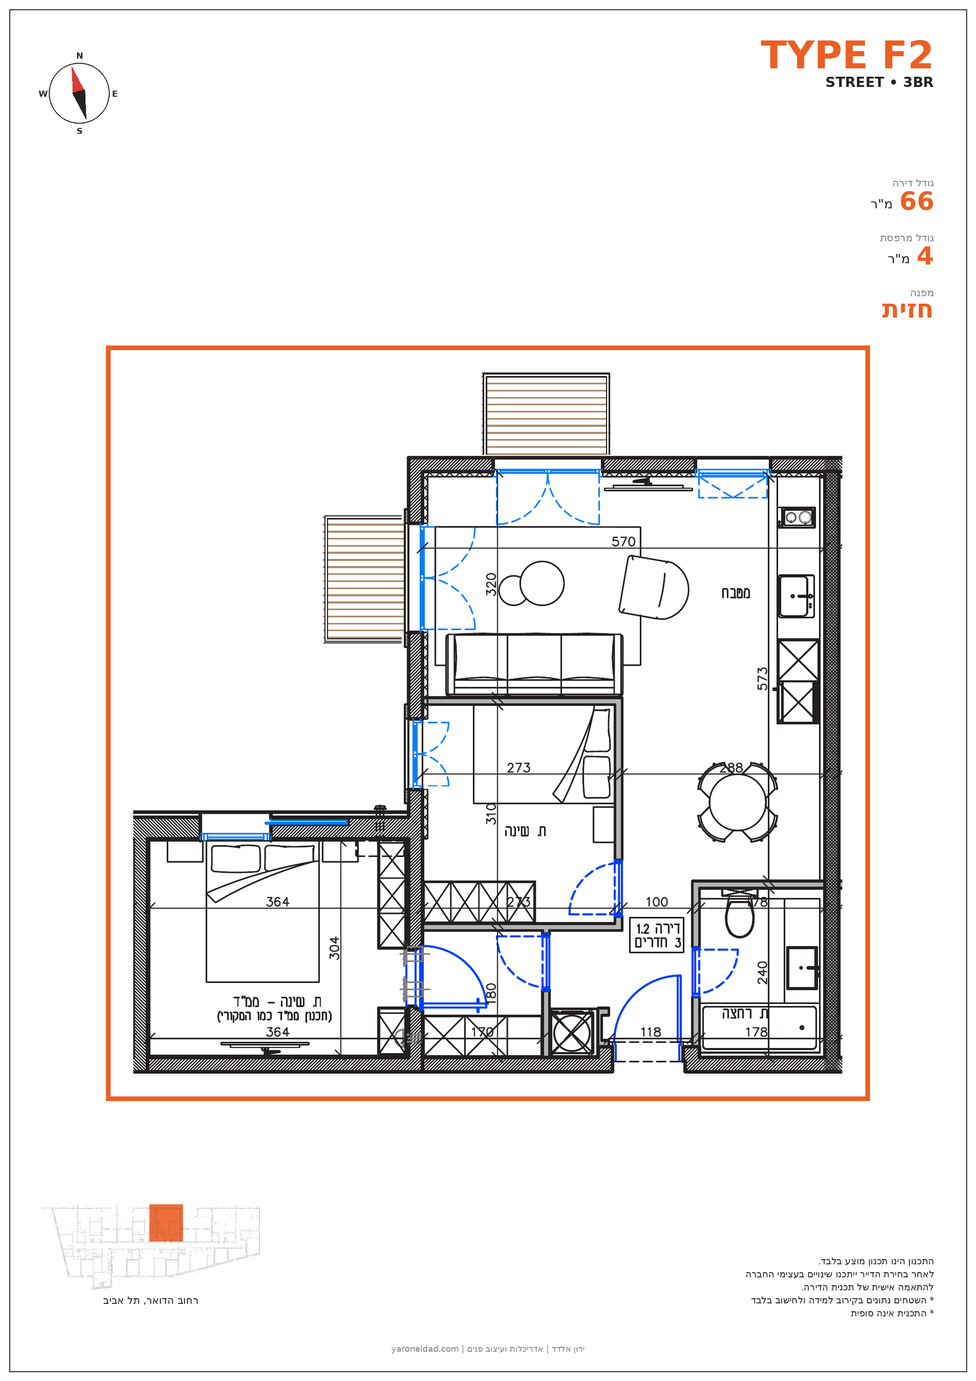
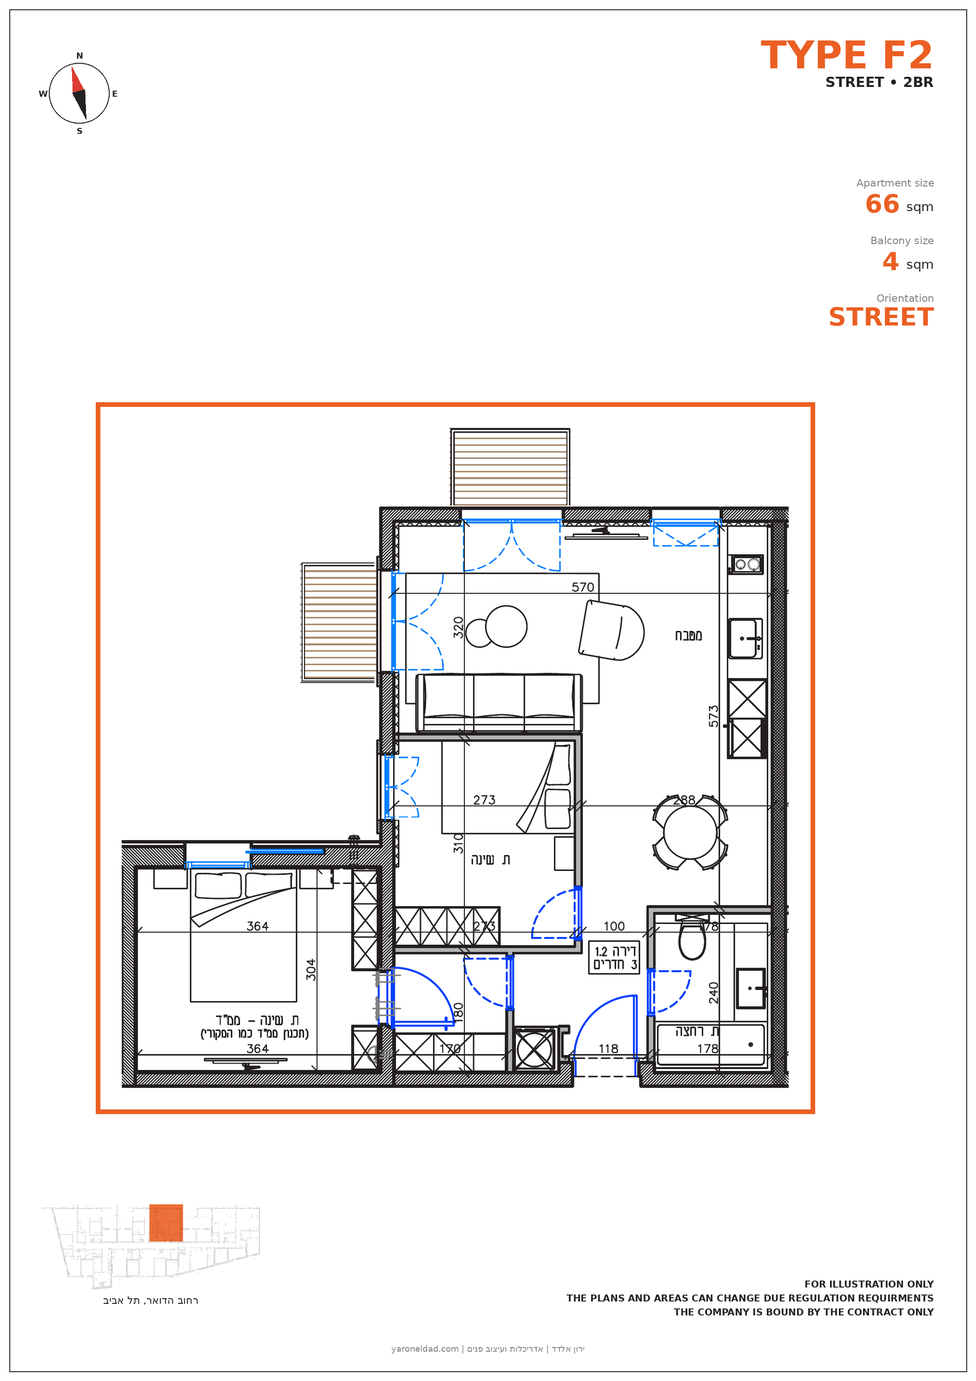
Refine map, POI grid, type metadata and copy
- Map: drop big white circle around HADOAR; new minimal teal dot + framed stone-card label
- Map: dashed aerial lines from HADOAR to every landmark (visual proximity, no on-map text noise)
- Map: HADOAR repositioned south to actual building location (east of Charles Clore, between Neve Tzedek and Jaffa)
- Map: Alma Beach moved out of the sea onto the coast
- Map: Charles Clore Park redrawn as a long N→S green strip running along the coast (matches reality)
- Map: add Setai Hotel marker on coast, north of the Clock Tower
- Map: HaMesila Park ellipse and Neve Tzedek shifted east to clear the new HADOAR
- POI grid: drop "The Sea" (redundant with Alma Beach), add Setai Hotel; replace "M · AERIAL" with walker-icon + walking minutes (6 km/h) + metres
- Nearby cards: replace Gesher Theatre with Setai Hotel
- Floor plan v3 PNGs refreshed (English labels) — typeMeta updated: A→2BR, C→3BR, F1/F2→2BR, G1/G2→Garden 1BR, G3→Garden 2BR, L→Street 3.5BR, Patio A/B→2BR + Patio
- Promise/Interiors/Bedrooms/Plans: drop residual "furnished" wording, remove materials we don't deliver (concrete ceilings, oxidised steel feature walls)
- Plans tabs: Typical Floor → Second Floor (label, data-tab, planMeta key, alt text, intro paragraph)
- Move-in standard chip: KNX → Smart-ready / Wiring

Changed region(s): [[0.0929, 0.1239, 0.9595, 0.8054], [0.681, 0.8983, 0.9595, 0.9603]]

diff --git a/index.html b/index.html
@@ -246,7 +246,8 @@ h1,h2,h3{font-family:var(--serif);font-weight:300;letter-spacing:-.005em;line-he
 .poi{padding:24px 22px;border-right:1px solid var(--line);display:flex;flex-direction:column;gap:6px}
 .poi:last-child{border-right:none}
 .poi .name{font-family:var(--serif);font-size:19px;font-weight:400}
-.poi .meta{font-size:10px;letter-spacing:.28em;text-transform:uppercase;color:var(--mute)}
+.poi .meta{font-size:10px;letter-spacing:.28em;text-transform:uppercase;color:var(--mute);display:inline-flex;align-items:center;gap:8px}
+.poi .meta .walk-icon{width:13px;height:16px;color:var(--sea-deep);flex-shrink:0}
 @media(max-width:900px){.poi-grid{grid-template-columns:repeat(2,1fr)}.poi:nth-child(2n){border-right:none}.poi:nth-child(odd){border-right:1px solid var(--line)}}
 
 /* TEAM */
@@ -361,13 +362,13 @@ footer{background:var(--ink);color:var(--paper);padding:60px 44px 36px;border-to
   <div class="promise-inner">
     <div class="eyebrow fade" style="justify-content:center"><span class="bar"></span><span class="label">Move-in standard</span></div>
     <h2 class="fade" data-d="1">Designed,<br/>down to the <em>last detail</em>.</h2>
-    <p class="fade" data-d="2">Hadoar 8 is delivered as a finished interior. Italian kitchens, travertine bathrooms, oak flooring, brass detailing, oxidised steel — every fixture and finish resolved. The buyer chooses what to bring; everything else is in place.</p>
+    <p class="fade" data-d="2">Hadoar 8 is delivered as a finished interior. Italian kitchens, travertine bathrooms, oak flooring, brass detailing, oxidised steel — every fixture and finish resolved.</p>
     <div class="promise-line fade" data-d="3">
       <div class="item"><span class="v">Yaron Eldad</span><span class="k">Interior Studio</span></div>
       <div class="item"><span class="v">Italian</span><span class="k">Stainless kitchens</span></div>
       <div class="item"><span class="v">Travertine</span><span class="k">All bathrooms</span></div>
       <div class="item"><span class="v">Smoked Oak</span><span class="k">Flooring</span></div>
-      <div class="item"><span class="v">KNX</span><span class="k">Smart-home</span></div>
+      <div class="item"><span class="v">Smart-ready</span><span class="k">Wiring</span></div>
     </div>
   </div>
 </section>
@@ -425,12 +426,12 @@ footer{background:var(--ink);color:var(--paper);padding:60px 44px 36px;border-to
     <div class="split-text">
       <div class="eyebrow fade"><span class="bar"></span><span class="label">The Living Room</span></div>
       <h2 class="fade" data-d="1">Stainless kitchens.<br/>Oak <em>everywhere</em>.</h2>
-      <p class="fade" data-d="2">An open kitchen in stainless steel and oak, a dining table under a soft pendant, and the city beyond the window. Every piece in the photograph is delivered with the home — chairs, sofa, table, lamps.</p>
+      <p class="fade" data-d="2">An open kitchen in stainless steel and oak, a dining table under a soft pendant, and the city beyond the window.</p>
       <ul>
         <li class="fade" data-d="2"><span>Kitchen</span><span>Italian stainless</span></li>
         <li class="fade" data-d="2"><span>Floor</span><span>Smoked oak</span></li>
         <li class="fade" data-d="3"><span>Climate</span><span>VRF · underfloor</span></li>
-        <li class="fade" data-d="3"><span>Smart Home</span><span>KNX-ready</span></li>
+        <li class="fade" data-d="3"><span>Smart Home</span><span>Smart-ready wiring</span></li>
       </ul>
     </div>
   </div>
@@ -472,7 +473,7 @@ footer{background:var(--ink);color:var(--paper);padding:60px 44px 36px;border-to
   <div class="gallery-head">
     <div class="eyebrow fade" style="justify-content:center"><span class="bar"></span><span class="label">The Bedrooms</span></div>
     <h2 class="fade" data-d="1">Where the city <em>quiets</em>.</h2>
-    <p class="fade" data-d="2">Concrete ceilings, oxidised steel feature walls, oak floors and copper detailing. Each bedroom is finished by Yaron Eldad's studio.</p>
+    <p class="fade" data-d="2">Oak floors and copper detailing. Each bedroom is finished by Yaron Eldad's studio.</p>
   </div>
   <div class="gal-2">
     <div class="gal-img fade"><img src="assets/renders/bedroom.jpg" alt="Master bedroom" /></div>
@@ -498,16 +499,16 @@ footer{background:var(--ink);color:var(--paper);padding:60px 44px 36px;border-to
   <div class="plans-head">
     <div class="eyebrow fade" style="justify-content:center"><span class="bar"></span><span class="label">Floor Plans · Yaniv Pardo Architects</span></div>
     <h2 class="fade" data-d="1">Two plates.<br/>No two residences <em>alike</em>.</h2>
-    <p class="fade" data-d="2">A first floor that meets the boulevard, and a typical residential plate above it. Switch between the two below; book a viewing to walk a specific apartment.</p>
+    <p class="fade" data-d="2">A first floor that meets the boulevard, and a second floor above it. Switch between the two plates below, or pick a specific apartment type to see its plan.</p>
   </div>
   <div class="plan-tabs fade">
     <button class="plan-tab active" data-tab="first">First Floor</button>
-    <button class="plan-tab" data-tab="typical">Typical Floor</button>
+    <button class="plan-tab" data-tab="second">Second Floor</button>
   </div>
   <div class="plan-stage fade" data-d="1">
     <div class="plan-frame">
       <div class="plan-pic show" data-pic="first"><img src="assets/floorplans/floor%20plans/1st-floor.png" alt="First floor plan — Yaniv Pardo Architects" /></div>
-      <div class="plan-pic" data-pic="typical"><img src="assets/floorplans/floor%20plans/typical-floor.png" alt="Typical floor plan — Yaniv Pardo Architects" /></div>
+      <div class="plan-pic" data-pic="second"><img src="assets/floorplans/floor%20plans/typical-floor.png" alt="Second floor plan — Yaniv Pardo Architects" /></div>
     </div>
     <div class="plan-info">
       <div class="item"><span class="k">Level</span><span class="v" id="plan-level"><em>First</em> Floor</span></div>
@@ -577,90 +578,98 @@ footer{background:var(--ink);color:var(--paper);padding:60px 44px 36px;border-to
       <!-- Land base -->
       <rect width="1200" height="720" fill="url(#dots)"/>
 
-      <!-- Sea — enlarged & emphasized -->
+      <!-- Sea -->
       <path d="M0 0 L0 720 L460 720 Q430 540 470 380 Q510 220 430 60 Q380 0 0 0 Z" fill="#bcd6df"/>
       <rect x="0" y="0" width="460" height="720" fill="url(#seaWaves)" opacity=".7"/>
       <text x="160" y="200" font-family="Cormorant Garamond, serif" font-style="italic" font-size="56" fill="#3d6a7d" opacity=".9">Mediterranean</text>
-      <text x="200" y="240" font-family="Inter,sans-serif" font-size="11" font-weight="500" letter-spacing="3" fill="#3d6a7d">250 M · AERIAL</text>
 
       <!-- Coast wave detail -->
       <path d="M440 80 Q460 240 420 400 Q470 560 440 720" stroke="#3d6a7d" stroke-width="1" fill="none" opacity=".55"/>
 
-      <!-- Aerial line from building to sea (dashed direct) -->
-      <line x1="600" y1="380" x2="320" y2="380" stroke="#3d6a7d" stroke-width="1" stroke-dasharray="3 4" opacity=".7"/>
-      <text x="490" y="370" font-family="Inter,sans-serif" font-size="9" letter-spacing="2" fill="#3d6a7d" opacity=".85">250 M</text>
+      <!-- Subtle street grid -->
+      <path d="M460 460 L1180 460" stroke="#5C544B" stroke-width="0.6" fill="none" opacity=".12"/>
+      <path d="M460 290 L1180 290" stroke="#5C544B" stroke-width="0.6" fill="none" opacity=".12"/>
+      <path d="M700 60 L700 700" stroke="#5C544B" stroke-width="0.6" fill="none" opacity=".10"/>
+      <path d="M900 60 L900 700" stroke="#5C544B" stroke-width="0.6" fill="none" opacity=".10"/>
 
-      <!-- Boulevards / streets -->
-      <path d="M480 720 L530 540 L600 380 L700 240 L860 130 L1100 60" stroke="#5C544B" stroke-width="1.2" fill="none" opacity=".3" stroke-dasharray="2 4"/>
-      <path d="M500 80 Q570 250 650 390 Q740 530 880 700" stroke="#5C544B" stroke-width="1.2" fill="none" opacity=".3" stroke-dasharray="2 4"/>
-      <path d="M460 460 L1180 460" stroke="#5C544B" stroke-width="0.6" fill="none" opacity=".15"/>
-      <path d="M460 290 L1180 290" stroke="#5C544B" stroke-width="0.6" fill="none" opacity=".15"/>
-
-      <!-- Park (HaMesila) -->
-      <ellipse cx="780" cy="500" rx="120" ry="50" fill="#A7B89A" opacity=".42"/>
-      <text x="740" y="505" font-family="Cormorant Garamond, serif" font-size="22" fill="#4d5c44">HaMesila Park</text>
-      <text x="740" y="524" font-family="Inter,sans-serif" font-size="8" letter-spacing="2.5" fill="#4d5c44" opacity=".7">500 M · AERIAL</text>
-
-      <!-- Jaffa Clock Tower (south) -->
-      <g transform="translate(490,620)">
-        <rect x="-7" y="-30" width="14" height="30" fill="none" stroke="#5C544B" stroke-width="1"/>
-        <circle cx="0" cy="-22" r="4" fill="none" stroke="#5C544B" stroke-width="1"/>
-        <path d="M-10 0 L10 0 L8 6 L-8 6 Z" fill="#5C544B" opacity=".6"/>
-        <text x="-50" y="22" font-family="Cormorant Garamond, serif" font-size="20" fill="#2A2520">Clock Tower</text>
-        <text x="-50" y="38" font-family="Inter,sans-serif" font-size="8" letter-spacing="2" fill="#5C544B">OLD JAFFA · 650 M AERIAL</text>
+      <!-- Aerial dashed lines from HADOAR (615,540) to each landmark -->
+      <g stroke="#4F7E91" stroke-width="1" fill="none" opacity=".55" stroke-dasharray="3 5">
+        <line x1="615" y1="540" x2="485" y2="365"/>
+        <line x1="615" y1="540" x2="780" y2="500"/>
+        <line x1="615" y1="540" x2="478" y2="610"/>
+        <line x1="615" y1="540" x2="490" y2="660"/>
+        <line x1="615" y1="540" x2="495" y2="450"/>
+        <line x1="615" y1="540" x2="850" y2="400"/>
+        <line x1="615" y1="540" x2="445" y2="540"/>
+        <line x1="615" y1="540" x2="1040" y2="180"/>
       </g>
 
-      <!-- Neve Tzedek (north-east of building) -->
-      <g transform="translate(900,340)">
-        <path d="M-20 0 L-10 -16 L0 0 Z M-2 0 L8 -20 L18 0 Z M16 0 L26 -14 L36 0 Z" fill="none" stroke="#5C544B" stroke-width="1" opacity=".6"/>
-        <text x="-40" y="22" font-family="Cormorant Garamond, serif" font-size="22" fill="#2A2520">Neve Tzedek</text>
-        <text x="-40" y="38" font-family="Inter,sans-serif" font-size="8" letter-spacing="2" fill="#5C544B">700 M · AERIAL</text>
+      <!-- HaMesila Park -->
+      <ellipse cx="830" cy="500" rx="110" ry="40" fill="#A7B89A" opacity=".4"/>
+      <text x="788" y="503" font-family="Cormorant Garamond, serif" font-style="italic" font-size="20" fill="#4d5c44">HaMesila Park</text>
+
+      <!-- Charles Clore Park (long green strip running N→S along coast) -->
+      <g>
+        <path d="M448 290 Q450 400 458 510 Q448 575 470 600 L520 600 L520 290 Z" fill="#A7B89A" opacity=".55" stroke="#7d9070" stroke-width="0.6"/>
+        <circle cx="490" cy="340" r="1.8" fill="#5d7a4f" opacity=".5"/>
+        <circle cx="478" cy="430" r="1.8" fill="#5d7a4f" opacity=".5"/>
+        <circle cx="500" cy="500" r="1.8" fill="#5d7a4f" opacity=".5"/>
+        <circle cx="485" cy="560" r="1.8" fill="#5d7a4f" opacity=".5"/>
+        <text x="468" y="445" font-family="Cormorant Garamond, serif" font-size="13" fill="#3a4f2c">Charles</text>
+        <text x="468" y="460" font-family="Cormorant Garamond, serif" font-size="13" fill="#3a4f2c">Clore Park</text>
       </g>
 
       <!-- Alma Beach (on coast) -->
-      <g transform="translate(280,460)">
+      <g transform="translate(485,365)">
         <path d="M-20 8 Q-10 -2 0 8 Q10 -2 20 8" stroke="#3d6a7d" stroke-width="1.6" fill="none"/>
         <path d="M-25 18 Q-12 8 0 18 Q12 8 25 18" stroke="#3d6a7d" stroke-width="1.1" fill="none" opacity=".55"/>
-        <text x="-44" y="44" font-family="Cormorant Garamond, serif" font-size="22" fill="#2A2520">Alma Beach</text>
-        <text x="-44" y="60" font-family="Inter,sans-serif" font-size="8" letter-spacing="2" fill="#3d6a7d">SEAFRONT · 250 M</text>
+        <text x="20" y="0" font-family="Cormorant Garamond, serif" font-style="italic" font-size="20" fill="#2A2520">Alma Beach</text>
       </g>
 
-      <!-- Charles Clore Park (green, on coast just north of Jaffa) -->
-      <g>
-        <path d="M448 480 Q452 540 467 600 L520 600 L520 480 Z" fill="#A7B89A" opacity=".55" stroke="#7d9070" stroke-width="0.6"/>
-        <circle cx="475" cy="510" r="2" fill="#5d7a4f" opacity=".5"/>
-        <circle cx="500" cy="540" r="2" fill="#5d7a4f" opacity=".5"/>
-        <circle cx="485" cy="575" r="2" fill="#5d7a4f" opacity=".5"/>
-        <circle cx="510" cy="500" r="1.5" fill="#5d7a4f" opacity=".5"/>
-        <text x="468" y="540" font-family="Cormorant Garamond, serif" font-size="14" fill="#3a4f2c">Charles</text>
-        <text x="468" y="556" font-family="Cormorant Garamond, serif" font-size="14" fill="#3a4f2c">Clore Park</text>
-        <text x="468" y="572" font-family="Inter,sans-serif" font-size="7" letter-spacing="2" fill="#3a4f2c" opacity=".75">700 M · AERIAL</text>
+      <!-- Setai Hotel (coastal building) -->
+      <g transform="translate(478,610)">
+        <rect x="-9" y="-18" width="18" height="18" fill="#FAF7F1" stroke="#2A2520" stroke-width="0.9"/>
+        <line x1="-9" y1="-12" x2="9" y2="-12" stroke="#2A2520" stroke-width="0.4" opacity=".5"/>
+        <line x1="-9" y1="-6" x2="9" y2="-6" stroke="#2A2520" stroke-width="0.4" opacity=".5"/>
+        <line x1="-3" y1="-18" x2="-3" y2="0" stroke="#2A2520" stroke-width="0.4" opacity=".5"/>
+        <line x1="3" y1="-18" x2="3" y2="0" stroke="#2A2520" stroke-width="0.4" opacity=".5"/>
+        <text x="14" y="-4" font-family="Cormorant Garamond, serif" font-style="italic" font-size="18" fill="#2A2520">Setai Hotel</text>
       </g>
 
-      <!-- Rothschild Boulevard (NE corner) -->
+      <!-- Jaffa Clock Tower -->
+      <g transform="translate(490,660)">
+        <rect x="-7" y="-30" width="14" height="30" fill="none" stroke="#5C544B" stroke-width="1"/>
+        <circle cx="0" cy="-22" r="4" fill="none" stroke="#5C544B" stroke-width="1"/>
+        <path d="M-10 0 L10 0 L8 6 L-8 6 Z" fill="#5C544B" opacity=".6"/>
+        <text x="14" y="-4" font-family="Cormorant Garamond, serif" font-style="italic" font-size="18" fill="#2A2520">Clock Tower</text>
+      </g>
+
+      <!-- Neve Tzedek (NE) -->
+      <g transform="translate(870,400)">
+        <path d="M-20 0 L-10 -16 L0 0 Z M-2 0 L8 -20 L18 0 Z M16 0 L26 -14 L36 0 Z" fill="none" stroke="#5C544B" stroke-width="1" opacity=".6"/>
+        <text x="-12" y="22" font-family="Cormorant Garamond, serif" font-style="italic" font-size="20" fill="#2A2520">Neve Tzedek</text>
+      </g>
+
+      <!-- Rothschild -->
       <g transform="translate(1050,170)">
-        <circle cx="0" cy="0" r="3" fill="#5C544B" opacity=".4"/>
-        <text x="-30" y="22" font-family="Cormorant Garamond, serif" font-size="18" fill="#2A2520">Rothschild</text>
-        <text x="-30" y="36" font-family="Inter,sans-serif" font-size="8" letter-spacing="2" fill="#5C544B">1.4 KM · AERIAL</text>
+        <circle cx="0" cy="0" r="3" fill="#5C544B" opacity=".5"/>
+        <text x="-30" y="22" font-family="Cormorant Garamond, serif" font-style="italic" font-size="18" fill="#2A2520">Rothschild</text>
       </g>
 
-      <!-- HADOAR 8 (center) -->
-      <g transform="translate(620,380)">
-        <!-- compass rose -->
-        <g opacity=".25">
-          <line x1="0" y1="-90" x2="0" y2="90" stroke="#4F7E91" stroke-width="0.5"/>
-          <line x1="-90" y1="0" x2="90" y2="0" stroke="#4F7E91" stroke-width="0.5"/>
-          <text x="0" y="-100" font-family="Inter,sans-serif" font-size="9" text-anchor="middle" fill="#4F7E91">N</text>
+      <!-- HADOAR № 8 — minimal dot + framed label -->
+      <g transform="translate(615,540)">
+        <circle cx="0" cy="0" r="14" fill="none" stroke="#4F7E91" stroke-width="0.6" opacity=".35"/>
+        <circle cx="0" cy="0" r="7" fill="#4F7E91"/>
+        <line x1="0" y1="-12" x2="0" y2="-30" stroke="#4F7E91" stroke-width="0.8"/>
+        <g transform="translate(0,-58)">
+          <rect x="-86" y="-22" width="172" height="44" fill="#FAF7F1" stroke="#2A2520" stroke-width="1.2"/>
+          <rect x="-82" y="-18" width="164" height="36" fill="none" stroke="#2A2520" stroke-width="0.4" opacity=".4"/>
+          <text x="0" y="-1" font-family="Cormorant Garamond, serif" font-size="22" text-anchor="middle" fill="#2A2520" font-weight="500">HADOAR № 8</text>
+          <text x="0" y="14" font-family="Inter,sans-serif" font-size="8" letter-spacing="3" text-anchor="middle" fill="#4F7E91">8 HADOAR ST · TLV-JAFFA</text>
         </g>
-        <!-- Building marker -->
-        <circle cx="0" cy="0" r="42" fill="#FAF7F1" stroke="#4F7E91" stroke-width="1"/>
-        <circle cx="0" cy="0" r="32" fill="none" stroke="#4F7E91" stroke-width="0.5" opacity=".5"/>
-        <circle cx="0" cy="0" r="6" fill="#4F7E91"/>
-        <text x="0" y="-58" font-family="Cormorant Garamond, serif" font-size="22" text-anchor="middle" fill="#2A2520" font-weight="500">HADOAR № 8</text>
-        <text x="0" y="68" font-family="Inter,sans-serif" font-size="9" letter-spacing="3" text-anchor="middle" fill="#4F7E91">EST. MCMXX</text>
       </g>
 
-      <!-- Scale + label -->
+      <!-- Scale -->
       <g transform="translate(60,680)">
         <line x1="0" y1="0" x2="80" y2="0" stroke="#5C544B" stroke-width="1"/>
         <line x1="0" y1="-3" x2="0" y2="3" stroke="#5C544B" stroke-width="1"/>
@@ -669,17 +678,33 @@ footer{background:var(--ink);color:var(--paper);padding:60px 44px 36px;border-to
       </g>
       <text x="1140" y="694" font-family="Inter,sans-serif" font-size="9" letter-spacing="3" text-anchor="end" fill="#5C544B">A FEW MINUTES FROM EVERYWHERE</text>
     </svg>
+
+    <!-- Reusable walker icon for POI grid below -->
+    <svg width="0" height="0" style="position:absolute" aria-hidden="true">
+      <defs>
+        <symbol id="walker" viewBox="0 0 16 20" fill="none" stroke="currentColor" stroke-width="1.4" stroke-linecap="round" stroke-linejoin="round">
+          <circle cx="9" cy="2.6" r="1.8" fill="currentColor" stroke="none"/>
+          <line x1="9" y1="5" x2="8" y2="11"/>
+          <line x1="9" y1="6.5" x2="11.5" y2="9.5"/>
+          <line x1="9" y1="6.5" x2="6" y2="9"/>
+          <line x1="8" y1="11" x2="11" y2="16"/>
+          <line x1="11" y1="16" x2="11.5" y2="18.5"/>
+          <line x1="8" y1="11" x2="5.5" y2="15"/>
+          <line x1="5.5" y1="15" x2="6.5" y2="18"/>
+        </symbol>
+      </defs>
+    </svg>
   </div>
 
   <div class="poi-grid fade">
-    <div class="poi"><div class="name">The Sea</div><div class="meta">250 m · aerial</div></div>
-    <div class="poi"><div class="name">Alma Beach</div><div class="meta">250 m · aerial</div></div>
-    <div class="poi"><div class="name">HaMesila Park</div><div class="meta">500 m · aerial</div></div>
-    <div class="poi"><div class="name">Old Jaffa Clock Tower</div><div class="meta">650 m · aerial</div></div>
-    <div class="poi"><div class="name">Charles Clore</div><div class="meta">700 m · aerial</div></div>
-    <div class="poi"><div class="name">Neve Tzedek</div><div class="meta">700 m · aerial</div></div>
-    <div class="poi"><div class="name">Jerusalem Boulevard</div><div class="meta">800 m · aerial</div></div>
-    <div class="poi"><div class="name">Rothschild Boulevard</div><div class="meta">1.4 km · aerial</div></div>
+    <div class="poi"><div class="name">Alma Beach</div><div class="meta"><svg class="walk-icon"><use href="#walker"/></svg>3 min · 250 m</div></div>
+    <div class="poi"><div class="name">HaMesila Park</div><div class="meta"><svg class="walk-icon"><use href="#walker"/></svg>5 min · 500 m</div></div>
+    <div class="poi"><div class="name">Setai Hotel</div><div class="meta"><svg class="walk-icon"><use href="#walker"/></svg>6 min · 550 m</div></div>
+    <div class="poi"><div class="name">Old Jaffa Clock Tower</div><div class="meta"><svg class="walk-icon"><use href="#walker"/></svg>7 min · 650 m</div></div>
+    <div class="poi"><div class="name">Charles Clore</div><div class="meta"><svg class="walk-icon"><use href="#walker"/></svg>7 min · 700 m</div></div>
+    <div class="poi"><div class="name">Neve Tzedek</div><div class="meta"><svg class="walk-icon"><use href="#walker"/></svg>7 min · 700 m</div></div>
+    <div class="poi"><div class="name">Jerusalem Boulevard</div><div class="meta"><svg class="walk-icon"><use href="#walker"/></svg>8 min · 800 m</div></div>
+    <div class="poi"><div class="name">Rothschild Boulevard</div><div class="meta"><svg class="walk-icon"><use href="#walker"/></svg>14 min · 1.4 km</div></div>
   </div>
 </section>
 
@@ -743,10 +768,10 @@ footer{background:var(--ink);color:var(--paper);padding:60px 44px 36px;border-to
       </div>
     </div>
     <div class="ncard fade" data-d="3">
-      <img src="assets/locations/gesher.jpg" alt="Gesher Theatre" loading="lazy" />
+      <img src="assets/locations/satai.png" alt="Setai Hotel" loading="lazy" />
       <div class="ncard-cap">
-        <div class="ncard-name">Gesher <em>Theatre</em></div>
-        <div class="ncard-meta">Repertory · 600 m</div>
+        <div class="ncard-name">Setai <em>Hotel</em></div>
+        <div class="ncard-meta">Seafront · 550 m</div>
       </div>
     </div>
   </div>
@@ -885,20 +910,20 @@ setInterval(checkFades, 250);
 
 // Floor plan tabs
 const planMeta = {
-  first:   { level: '<em>First</em> Floor',   range: '60 – 145 sqm', outdoor: 'Private balconies · planters' },
-  typical: { level: '<em>Typical</em> Floor', range: '60 – 185 sqm', outdoor: 'Balconies · terraces' },
+  first:  { level: '<em>First</em> Floor',  range: '60 – 145 sqm', outdoor: 'Private balconies · planters' },
+  second: { level: '<em>Second</em> Floor', range: '60 – 185 sqm', outdoor: 'Balconies · terraces' },
 };
 const typeMeta = {
-  'A':       { name: 'Type <em>A</em>',       layout: 'Street · 3BR',       apt: '83 sqm',  outdoor: '6 sqm balcony' },
-  'C':       { name: 'Type <em>C</em>',       layout: 'Street · 4BR',       apt: '105 sqm', outdoor: '4 sqm balcony' },
-  'F1':      { name: 'Type <em>F1</em>',      layout: 'Street · 3BR',       apt: '66 sqm',  outdoor: '7 sqm balcony' },
-  'F2':      { name: 'Type <em>F2</em>',      layout: 'Street · 3BR',       apt: '66 sqm',  outdoor: '4 sqm balcony' },
-  'G1':      { name: 'Type <em>G1</em>',      layout: 'Garden · 2BR',       apt: '46 sqm',  outdoor: '4 sqm balcony' },
-  'G2':      { name: 'Type <em>G2</em>',      layout: 'Garden · 2BR',       apt: '49 sqm',  outdoor: '4 sqm balcony' },
-  'G3':      { name: 'Type <em>G3</em>',      layout: 'Garden · 3BR',       apt: '68 sqm',  outdoor: '4 sqm balcony' },
-  'L':       { name: 'Type <em>L</em>',       layout: '4.5BR',              apt: '128 sqm', outdoor: '8 sqm terrace' },
-  'PATIO A': { name: 'Type <em>Patio A</em>', layout: 'Street · 3BR + Patio', apt: '66 sqm', outdoor: '24 sqm patio' },
-  'PATIO B': { name: 'Type <em>Patio B</em>', layout: 'Street · 3BR + Patio', apt: '66 sqm', outdoor: '22 sqm patio' },
+  'A':       { name: 'Type <em>A</em>',       layout: 'Street · 2BR',         apt: '83 sqm',  outdoor: '6 sqm balcony' },
+  'C':       { name: 'Type <em>C</em>',       layout: 'Street · 3BR',         apt: '105 sqm', outdoor: '4 sqm balcony' },
+  'F1':      { name: 'Type <em>F1</em>',      layout: 'Street · 2BR',         apt: '66 sqm',  outdoor: '7 sqm balcony' },
+  'F2':      { name: 'Type <em>F2</em>',      layout: 'Street · 2BR',         apt: '66 sqm',  outdoor: '4 sqm balcony' },
+  'G1':      { name: 'Type <em>G1</em>',      layout: 'Garden · 1BR',         apt: '46 sqm',  outdoor: '4 sqm balcony' },
+  'G2':      { name: 'Type <em>G2</em>',      layout: 'Garden · 1BR',         apt: '49 sqm',  outdoor: '4 sqm balcony' },
+  'G3':      { name: 'Type <em>G3</em>',      layout: 'Garden · 2BR',         apt: '68 sqm',  outdoor: '4 sqm balcony' },
+  'L':       { name: 'Type <em>L</em>',       layout: 'Street · 3.5BR',       apt: '128 sqm', outdoor: '8 sqm terrace' },
+  'PATIO A': { name: 'Type <em>Patio A</em>', layout: 'Street · 2BR + Patio', apt: '66 sqm',  outdoor: '24 sqm patio' },
+  'PATIO B': { name: 'Type <em>Patio B</em>', layout: 'Street · 2BR + Patio', apt: '66 sqm',  outdoor: '22 sqm patio' },
 };
 const typeDisplay = document.querySelector('.type-display');
 document.querySelectorAll('.plan-tab').forEach(tab => {
